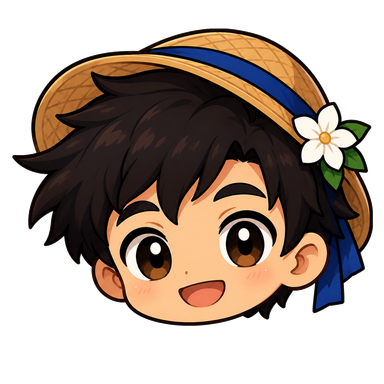
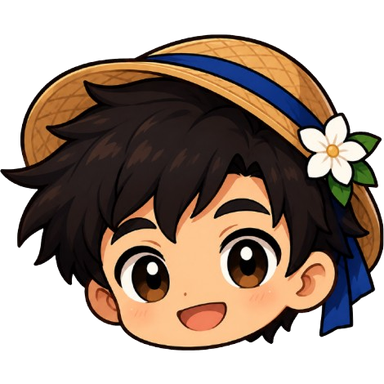
feat: the chat button is Lilio's face with an online ring
Restyled to the reference: a 64px dark disc with the head filling it, a
green ring, and a status dot at the corner. The 'Lilio' word label is
gone — the invite bubble introduces him by name, and a face on a
coloured ring reads as someone to talk to without needing to be told.

Uses the background-removed head from Downloads. Trimmed to the artwork
and padded back to a square before resizing, so the head fills its box
instead of floating in whatever margin the export left; the previous
file kept that margin and drew him smaller than the space allowed.

The ring is a box-shadow on the button rather than a border, so the head
sits flush against it with no gap, and the dot carries a matching shadow
in the disc colour to punch a hole in the ring behind it.

diff --git a/liliw-frontend/src/components/AIChat.tsx b/liliw-frontend/src/components/AIChat.tsx
@@ -257,20 +257,38 @@ export default function AIChat() {
         whileHover={{ scale: 1.1 }}
         whileTap={{ scale: 0.92 }}
         onClick={() => { setIsOpen(!isOpen); dismissInvite(); }}
-        className={`fixed bottom-6 z-40 rounded-full text-white shadow-xl transition-shadow hover:shadow-2xl ${isMapPage ? 'right-24' : 'right-6'}`}
-        style={{ background: 'linear-gradient(135deg, #0B3D91, #1565C0)', padding: '14px 18px' }}
+        className={`fixed bottom-6 z-40 rounded-full text-white shadow-xl transition-shadow hover:shadow-2xl grid place-items-center relative ${isMapPage ? 'right-24' : 'right-6'}`}
+        style={{
+          width: 64, height: 64,
+          background: isOpen ? 'linear-gradient(135deg, #0B3D91, #1565C0)' : '#0B1220',
+          // The ring is the avatar's own edge rather than a border on the
+          // button, so the head can sit right against it without a gap.
+          boxShadow: isOpen
+            ? '0 10px 30px -10px rgba(11,61,145,0.7)'
+            : '0 0 0 3px #22C55E, 0 10px 30px -10px rgba(0,0,0,0.6)',
+        }}
         title="Chat with Lilio"
+        aria-label={isOpen ? 'Close chat' : 'Chat with Lilio'}
       >
-        {isOpen
-          ? <X size={22} />
-          : <div className="flex items-center gap-2">
-              {/* Lilio's head rather than a map pin — the button is the only
-                  place he appears before you open the chat, so it should look
-                  like a guide you can talk to. */}
-              <LilioAvatar size={32} crop="head" />
-              <span className="text-sm font-bold" style={{ fontFamily: HL }}>Lilio</span>
-            </div>
-        }
+        {isOpen ? <X size={24} /> : (
+          <>
+            {/* Slightly larger than the button so the head fills the disc the
+                way a profile picture does, with the overflow clipped. */}
+            <span className="absolute inset-0 rounded-full overflow-hidden grid place-items-center">
+              <LilioAvatar size={62} crop="head" />
+            </span>
+            {/* Online dot. Lilio answers whenever the page is up, so this is a
+                statement about availability rather than decoration. */}
+            <span
+              className="absolute rounded-full"
+              style={{
+                width: 15, height: 15, right: 2, bottom: 2,
+                backgroundColor: '#22C55E',
+                boxShadow: '0 0 0 3px #0B1220',
+              }}
+            />
+          </>
+        )}
       </motion.button>
 
       {/* Chat window */}
